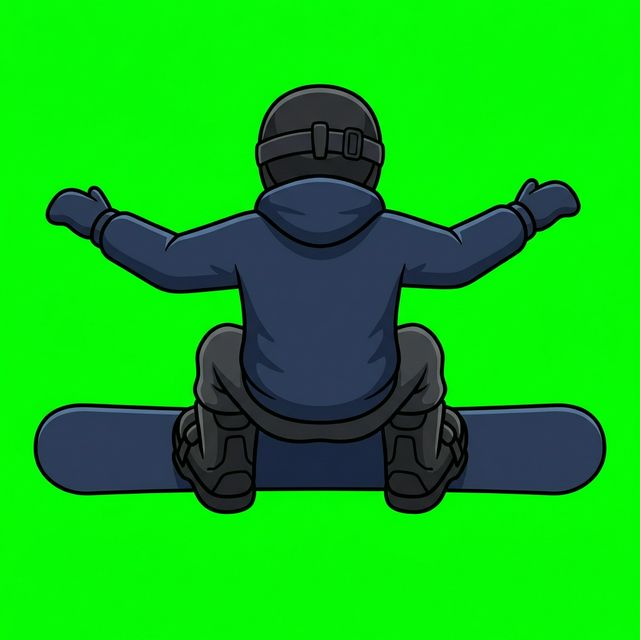
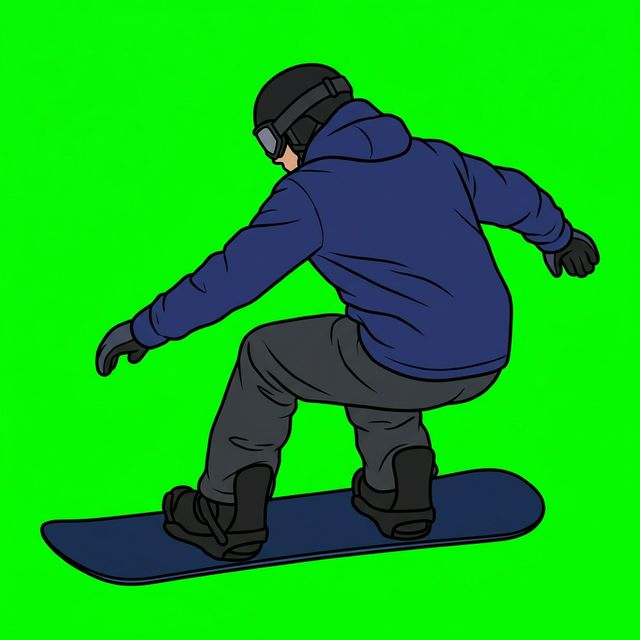
Better action-pose snowboarder sprite, improved chroma key, larger size

diff --git a/shred-game.js b/shred-game.js
@@ -78,12 +78,13 @@
                 const d = imgData.data;
                 for (let i = 0; i < d.length; i += 4) {
                     const r = d[i], g = d[i + 1], b = d[i + 2];
-                    // Remove bright green (chroma key)
-                    if (g > 150 && r < 150 && b < 150) {
-                        d[i + 3] = 0; // fully transparent
-                    } else if (g > 120 && g > r * 1.2 && g > b * 1.2) {
-                        // Semi-green edge pixels — make semi-transparent
-                        d[i + 3] = Math.floor(d[i + 3] * 0.3);
+                    // Remove bright green (chroma key) — aggressive
+                    if (g > 100 && g > r * 1.1 && g > b * 1.1) {
+                        d[i + 3] = 0;
+                    } else if (g > 80 && g > r && g > b) {
+                        // Edge fringe — fade out
+                        const greenness = (g - Math.max(r, b)) / g;
+                        d[i + 3] = Math.floor(d[i + 3] * Math.max(0, 1 - greenness * 3));
                     }
                 }
                 octx.putImageData(imgData, 0, 0);
@@ -484,13 +485,13 @@
             const sway = Math.sin(frameCount * 0.08) * (speed * 5);
             const tx = tilt * 40 + sway;
 
-            // Sprite sizing — fill bottom ~55% of screen
-            const spriteH = h * 0.58;
+            // Sprite sizing — fill bottom ~65% of screen
+            const spriteH = h * 0.68;
             const aspect = this.riderCanvas.width / this.riderCanvas.height;
             const spriteW = spriteH * aspect;
 
             const drawX = cx - spriteW / 2 + tx;
-            const drawY = h - spriteH + 20; // slightly below bottom so head is visible but feet extend off
+            const drawY = h - spriteH + 40; // push down so board is near bottom edge
 
             ctx.save();
 

diff --git a/shred-renderer-gl.js b/shred-renderer-gl.js
@@ -405,7 +405,7 @@ const SHADERS = {
 
             if (type == 0) { // PLAYER - HUMANIZED
                 // Adjust coordinates for the new model
-                vec2 p = vUv;
+                vec2 p = vUv + vec2(0.0, 0.5); // Shift up to align board with previous anchor
                 
                 // Animation / Wobble effect for dynamic feel
                 float lean = -sin(vWobble) * 0.1; 
